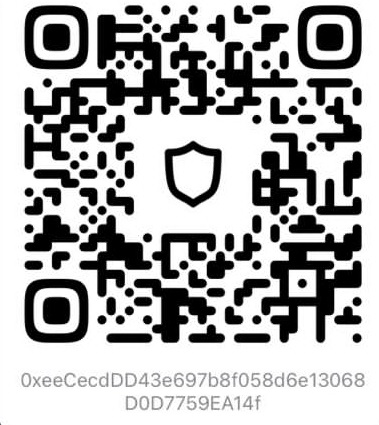
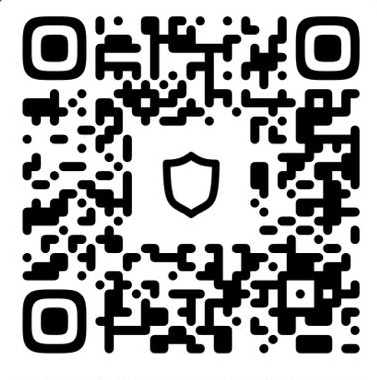
new wallets

diff --git a/capitalclime/capitalclime.com/capitalclime_dashboard_landing/make_deposit.html b/capitalclime/capitalclime.com/capitalclime_dashboard_landing/make_deposit.html
@@ -1014,7 +1014,7 @@
                     <p class="mb-1"><img width="40px" height="40px" src="./dashboard_files/48.png"/></p>
                     <p class="mb-1">CANCEL AT ANY TIME</p>
                     <div class="input-group p-10">
-                      <input id="reflink" type="text" class="form-control" value="bc1q4lyapcy3es9n9tghrqcusjh08pqqkjc8tllwr0" readonly="">
+                      <input id="reflink" type="text" class="form-control" value="bc1qj6vmas3v42nz874rruptuctnm6jkcn097ufe4c" readonly="">
                       <span style="cursor: pointer;" onclick="copy()"  class="input-group-append">
                         <button class="btn btn-inverse">
                           <i class="far fa-clone" aria-hidden="true"></i>
@@ -1040,7 +1040,7 @@
                     <p class="mb-1"><img width="40px" height="40px" src="./dashboard_files/ltc.png"/></p>
                     <p class="mb-1">CANCEL AT ANY TIME</p>
                     <div class="input-group p-10">
-                      <input id="reflinker" type="text" class="form-control" value="ltc1q6ral3hhy3wjlfgayahemnd0pdfxq3mxhchwsa9" readonly="">
+                      <input id="reflinker" type="text" class="form-control" value="ltc1qwh8jhnx03np22evhz9prtp6djzg5lwa5p349jg" readonly="">
                       <span style="cursor: pointer;" onclick="copyer()" class="input-group-append">
                         <button class="btn btn-inverse">
                           <i class="far fa-clone" aria-hidden="true"></i>
@@ -1057,14 +1057,15 @@
               <div>
                 <input type="radio" id="control_03" name="package" value="">
                 <label for="control_03">
-                  <h3 class="x2">USDT(ERC20)</h3>
+                  <h3 class="x2">USDT(TRC20)</h3>
                   <div class="d-md-inline-block">
                     
                     
-                    
+                    <p class="mb-1"><img width="40px" height="40px" src="./dashboard_files/usdt.png"/></p>
+                   
                        <p class="mb-1">CANCEL AT ANY TIME</p>
                     <div class="input-group p-10">
-                      <input id="reflinkerr" type="text" class="form-control" value="0xeeCecdDD43e697b8f058d6e13068D0D7759EA14f" readonly="">
+                      <input id="reflinkerr" type="text" class="form-control" value="0x92216ffafa862354102166C891D5B9B051c1EFEf" readonly="">
                       <span style="cursor: pointer;" onclick="copyerr()" class="input-group-append">
                         <button class="btn btn-inverse">
                           <i class="far fa-clone" aria-hidden="true"></i>
@@ -1086,7 +1087,7 @@
                     <p class="mb-1"><img width="40px" height="40px" src="./dashboard_files/Ethereum.png"/></p>
                     <p class="mb-1">CANCEL AT ANY TIME</p>
                     <div class="input-group p-10">
-                      <input id="reflinkest" type="text" class="form-control" value="0xeeCecdDD43e697b8f058d6e13068D0D7759EA14f
+                      <input id="reflinkest" type="text" class="form-control" value="0x92216ffafa862354102166C891D5B9B051c1EFEf
                       " readonly="">
                       <span style="cursor: pointer;" onclick="copyest()" class="input-group-append">
                         <button class="btn btn-inverse">
